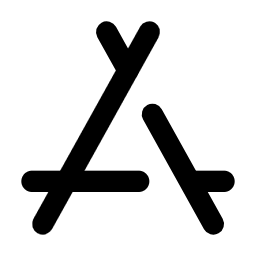
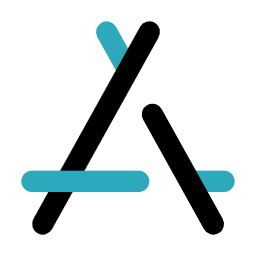
Finished BottomNavigation visually.

Changed region(s): [[0.0625, 0.6562, 0.5938, 0.75], [0.375, 0.0625, 0.5, 0.2812], [0.75, 0.6562, 0.9375, 0.75]]

diff --git a/StefanApp/screens/HomeManager.js b/StefanApp/screens/HomeManager.js
@@ -1,0 +1,75 @@
+import React from 'react'
+import {NavigationContainer} from "@react-navigation/native"
+import {createBottomTabNavigator} from "@react-navigation/bottom-tabs"
+import Services from "./Services";
+import {Image} from "react-native";
+import servicesBlack from '../assets/images/servicesColor.png'
+import servicesColor from '../assets/images/servicesBlack.png'
+import Contact from "./Contact";
+import contactBlack from '../assets/images/contactBlack.png'
+import contactColor from '../assets/images/contactColor.png'
+import homeBlack from '../assets/images/homeBlack.png'
+import homeColor from '../assets/images/homeColor.png'
+import HomeScreen from "./HomeScreen";
+
+
+const Tab = createBottomTabNavigator();
+
+const HomeManager = () => {
+    return (
+        <NavigationContainer independent={true}>
+            <Tab.Navigator
+                initialRouteName={'HomeScreen'}
+                screenOptions={({route}) => ({
+                    tabBarStyle: {
+                        height: 75,
+                        display: 'flex',
+                        justifyContent: 'center',
+                        alignItems: 'center',
+                        padding: 10
+                    },
+                    tabBarItemStyle: {
+                        position: 'relative',
+                        display: 'flex',
+                        justifyContent: 'center',
+                        alignItems: 'center',
+                        flexDirection: 'column',
+                        height: 50,
+                    },
+                    tabBarLabelStyle: {
+                        fontFamily: 'DosisBold',
+                        fontSize: 20,
+                    },
+                    tabBarIcon: ({focused}) => {
+                        let showIcon;
+                        let rn = route.name;
+
+                        if (rn === 'Services') {
+                            showIcon = focused ? servicesBlack : servicesColor;
+                        } else if (rn === 'Contact') {
+                            showIcon = focused ? contactColor : contactBlack;
+                        } else {
+                            showIcon = focused ? homeColor : homeBlack;
+                        }
+
+                        return (
+                            <Image
+                                source={showIcon}
+                                style={{
+                                    width: 25,
+                                    height: 25,
+                                }}
+                            />
+                        );
+                    },
+                })}
+            >
+                <Tab.Screen name={'Services'} component={Services} options={{headerShown: false}}/>
+                <Tab.Screen name={'Home'} component={HomeScreen} options={{headerShown: false}}/>
+                <Tab.Screen name={'Contact'} component={Contact} options={{headerShown: false}}/>
+            </Tab.Navigator>
+        </NavigationContainer>
+    );
+};
+
+export default HomeManager;

diff --git a/StefanApp/screens/HomeScreen.js b/StefanApp/screens/HomeScreen.js
@@ -1,55 +1,12 @@
 import React from 'react';
-import {createBottomTabNavigator} from '@react-navigation/bottom-tabs';
-import Login from "./Login";
-import Services from "./Services";
-import {View, Image} from "react-native";
-import image from "../assets/images/favicon.png";
-
-const Tab = createBottomTabNavigator();
+import {View, Text} from "react-native";
 
 const HomeScreen = () => {
-    const servicesBlack = require('./../assets/images/servicesBlack.png')
-    const servicesColor = require('./../assets/images/servicesColor.png')
-
     return (
-        <Tab.Navigator>
-            <Tab.Screen
-                name="Services"
-                component={Services}
-                options={{
-                    headerShown: false,
-                    tabBarStyle: {backgroundColor: '#F5F5F5', width: '100%', display:'flex', justifyContent: 'center', alignItems: 'center'},
-                    tabBarIcon: ({focused, color, size}) => (
-                        <Image
-                            source={
-                                focused
-                                    ? servicesBlack
-                                    : servicesColor
-                            }
-                            style={{width: size, height: size}}
-                        />
-                    ),
-                }}
-            />
-            <Tab.Screen
-                name="Contact"
-                component={Login}
-                options={{
-                    headerShown: false,
-                    tabBarIcon: ({focused, color, size}) => (
-                        <Image
-                            source={
-                                focused
-                                    ? image
-                                    : image
-                            }
-                            style={{width: size, height: size}}
-                        />
-                    ),
-                }}
-            />
-        </Tab.Navigator>
+        <View>
+            <Text>This is the actual homepage</Text>
+        </View>
     );
 };
 
-export default HomeScreen
+export default HomeScreen;

diff --git a/StefanApp/App.js b/StefanApp/App.js
@@ -4,7 +4,7 @@ import {createNativeStackNavigator} from '@react-navigation/native-stack';
 import FirstScreen from "./screens/FirstScreen";
 import {useFonts} from "expo-font";
 import Login from "./screens/Login";
-import HomeScreen from "./screens/HomeScreen";
+import HomeManager from "./screens/HomeManager";
 import Register from "./screens/Register";
 import Services from "./screens/Services";
 
@@ -35,8 +35,7 @@ function App() {
                         headerStyle: {}
                     }}
                 />
-                <Stack.Screen name={'Homepage'} component={HomeScreen}/>
-                <Stack.Screen name={'Services'} component={Services}/>
+                <Stack.Screen name={'Homepage'} component={HomeManager}/>
             </Stack.Navigator>
         </NavigationContainer>
     );

diff --git a/StefanApp/screens/Contact.js b/StefanApp/screens/Contact.js
@@ -1,0 +1,12 @@
+import React from 'react';
+import {View, Text} from "react-native";
+
+const Contact = () => {
+    return (
+        <View>
+            <Text>This is text</Text>
+        </View>
+    );
+};
+
+export default Contact;
